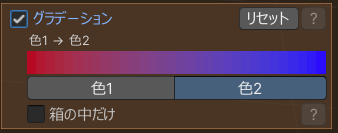
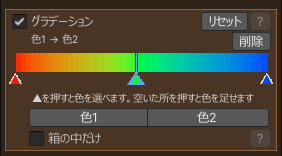
0.7.1: グラデーションの途中の色（6 章）を追加し、図 7 を新しい画面に・Scene の箱の図を追加、表紙を 0.7.1 に

diff --git a/index.html b/index.html
@@ -81,10 +81,10 @@ td.c{ text-align:center; font-weight:700; }
   <div class="hue"></div>
   <p class="sub"><span class="nb">Scene</span> でクリックした場所の色を、陰影を保ったまま変える Unity エディタ拡張</p>
   <div class="meta">
-    <span>対応版</span><span><span class="nb">Tocolo</span> <span class="nb">0.7.0</span> ／ <span class="nb">Tocolo Pro</span> <span class="nb">0.7.0</span></span>
+    <span>対応版</span><span><span class="nb">Tocolo</span> <span class="nb">0.7.1</span> ／ <span class="nb">Tocolo Pro</span> <span class="nb">0.7.1</span></span>
     <span>動作環境</span><span><span class="nb">Unity 2022.3</span>、VRChat SDK Avatars 3.7.0 以降、<span class="nb">NDMF</span> 1.14.0 以降</span>
     <span>作者</span><span>nekoare</span>
-    <span>更新</span><span>2026-11-21</span>
+    <span>更新</span><span>2026-11-22</span>
   </div>
   <div class="foot"><span><span class="nb">Tocolo</span> 操作説明書</span><span>表紙</span></div>
 </section>
@@ -454,9 +454,17 @@ td.c{ text-align:center; font-weight:700; }
   <ol class="steps">
     <li><span>色ブロックの下にある「グラデーション」を ON にします。箱は選択範囲を囲む位置に出ます。</span></li>
     <li><span>箱のギズモで移動・回転・拡大縮小し、各面の橙色の丸でその面だけを伸縮して、向きと範囲を決めます。箱の高さの方向がグラデーションの方向で、下の面に「<span class="nb">色 1</span>」、上の面に「<span class="nb">色 2</span>」の札が出ます。上下に反転させると<span class="nb">色 1</span> と<span class="nb">色 2</span> が入れ替わります。</span></li>
-    <li><span>「<span class="nb">色 2</span>」を選ぶと、見本行・ホイール・陰影の暗さ・ガンマ・不透明度が<span class="nb">色 2</span> のものになります（陰影の強調は<span class="nb">色 1</span> と共通）。<span class="nb">色 2</span> の初期値は元の色です。</span></li>
+    <li><span>［<span class="nb">色 1</span>｜<span class="nb">色 2</span>］で「<span class="nb">色 2</span>」を選ぶと、見本行・ホイール・陰影の暗さ・ガンマ・不透明度が<span class="nb">色 2</span> のものになります（陰影の強調は<span class="nb">色 1</span> と共通）。見本の下の右端の▲を押しても同じです。<span class="nb">色 2</span> の初期値は元の色です。</span></li>
   </ol>
-  <div><div class="fig" style="padding:8px"><img src="img/fig7.png" alt="パネルのグラデーションのブロック" style="width:90mm"></div><div class="cap">パネルのグラデーションのブロック。トグルの行に［リセット］、その下に<span class="nb">色 1 → 色 2</span> の見本、ホイールなどで変える色の切り替え（<span class="nb">色 1／色 2</span>）、「箱の中だけ」が並ぶ</div></div>
+  <div class="two" style="grid-template-columns:1fr 40mm"><div><div class="fig" style="padding:8px"><img src="img/fig7.png" alt="パネルのグラデーションのブロック" style="width:64mm"></div><div class="cap">パネルのグラデーションのブロック。トグルの行に［リセット］、その下に<span class="nb">色 1 → 色 2</span> の見本と▲、ホイールなどで変える色の切り替え（<span class="nb">色 1／色 2</span>）、「箱の中だけ」が並ぶ</div></div><div><div class="fig" style="padding:6px"><img src="img/fig7b.png" alt="途中の色を足したグラデーションの箱"></div><div class="cap">途中の色（緑）を足した例。<span class="nb">Scene</span> の箱に緑の枠が出る</div></div></div>
+  <h3>途中の色（3 色以上）</h3>
+  <p>見本の下の▲の無い所を押すと、そこに途中の色を足します（6 色まで）。足した直後はその位置の今の色なので、見た目は変わりません。▲を押して選び、ホイールなどで色を変えます。</p>
+  <ul>
+    <li>途中の▲は左右にドラッグして動かせます。選んでいる間は、見本の右上の［削除］で消せます。</li>
+    <li>同じ位置に 2 色置くと、そこで色がくっきり切り替わります。重なった▲は、押すたびに順に選べます。</li>
+    <li>途中の色が持つのは色だけです。陰影の暗さ・ガンマ・不透明度は<span class="nb">色 1</span> と<span class="nb">色 2</span> から決まるので、選んでいる間は灰色になります。</li>
+    <li><span class="nb">Scene</span> の箱には、途中の色の高さにその色の枠が出ます。</li>
+  </ul>
   <div class="two">
     <div>
       <h3>箱の中だけ</h3>
@@ -464,7 +472,7 @@ td.c{ text-align:center; font-weight:700; }
     </div>
     <div>
       <h3>OFF にしても設定は残る</h3>
-      <p>グラデーションを OFF にしてから ON に戻しても、<span class="nb">色 2</span> と箱はそのまま残ります。最初からやり直したいときは、トグルの行の［リセット］で<span class="nb">色 2</span>（陰影の暗さ・ガンマ・不透明度は<span class="nb">色 1</span> と同じ値）と箱を、ON にした直後の状態に戻します。</p>
+      <p>グラデーションを OFF にしてから ON に戻しても、<span class="nb">色 2</span> と箱はそのまま残ります。最初からやり直したいときは、トグルの行の［リセット］で<span class="nb">色 2</span>（陰影の暗さ・ガンマ・不透明度は<span class="nb">色 1</span> と同じ値）と箱を、ON にした直後の状態に戻します。途中の色は消えます。</p>
     </div>
   </div>
   <p>マテリアルをまたいで連結した編集にも、グラデーションの設定は共通で効きます。箱は 1 つで、各パーツの位置に応じて混ざります。箱を隠したいときは 8 章の小窓「表示切替」を使います。</p>
